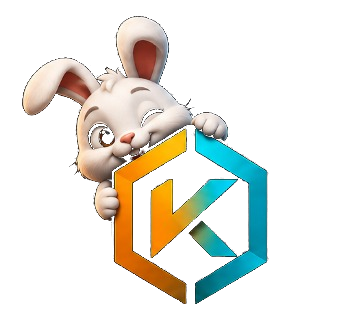
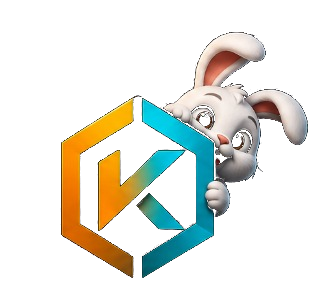
Actualizar la imagen de la mascota (conejo desde arriba a la derecha)
Nueva versión provista por el cliente, mismo tratamiento que la anterior
(fondo negro removido con sharp). Cambian las dimensiones del archivo, así
que se ajustan width/height en los componentes que la usan.

diff --git a/src/components/brand/Logo.tsx b/src/components/brand/Logo.tsx
@@ -27,8 +27,8 @@ export function LogoMark({ className }: { className?: string }) {
     <Image
       src="/marca/kryvexa-mascota.png"
       alt=""
-      width={364}
-      height={334}
+      width={334}
+      height={306}
       priority
       className={cx("size-9 w-auto object-contain", className)}
       aria-hidden

diff --git a/src/components/layout/LogoRain.tsx b/src/components/layout/LogoRain.tsx
@@ -83,8 +83,8 @@ export function LogoRain() {
           <Image
             src="/marca/kryvexa-mascota.png"
             alt=""
-            width={364}
-            height={334}
+            width={334}
+            height={306}
             sizes="80px"
             className="size-full object-contain"
           />
